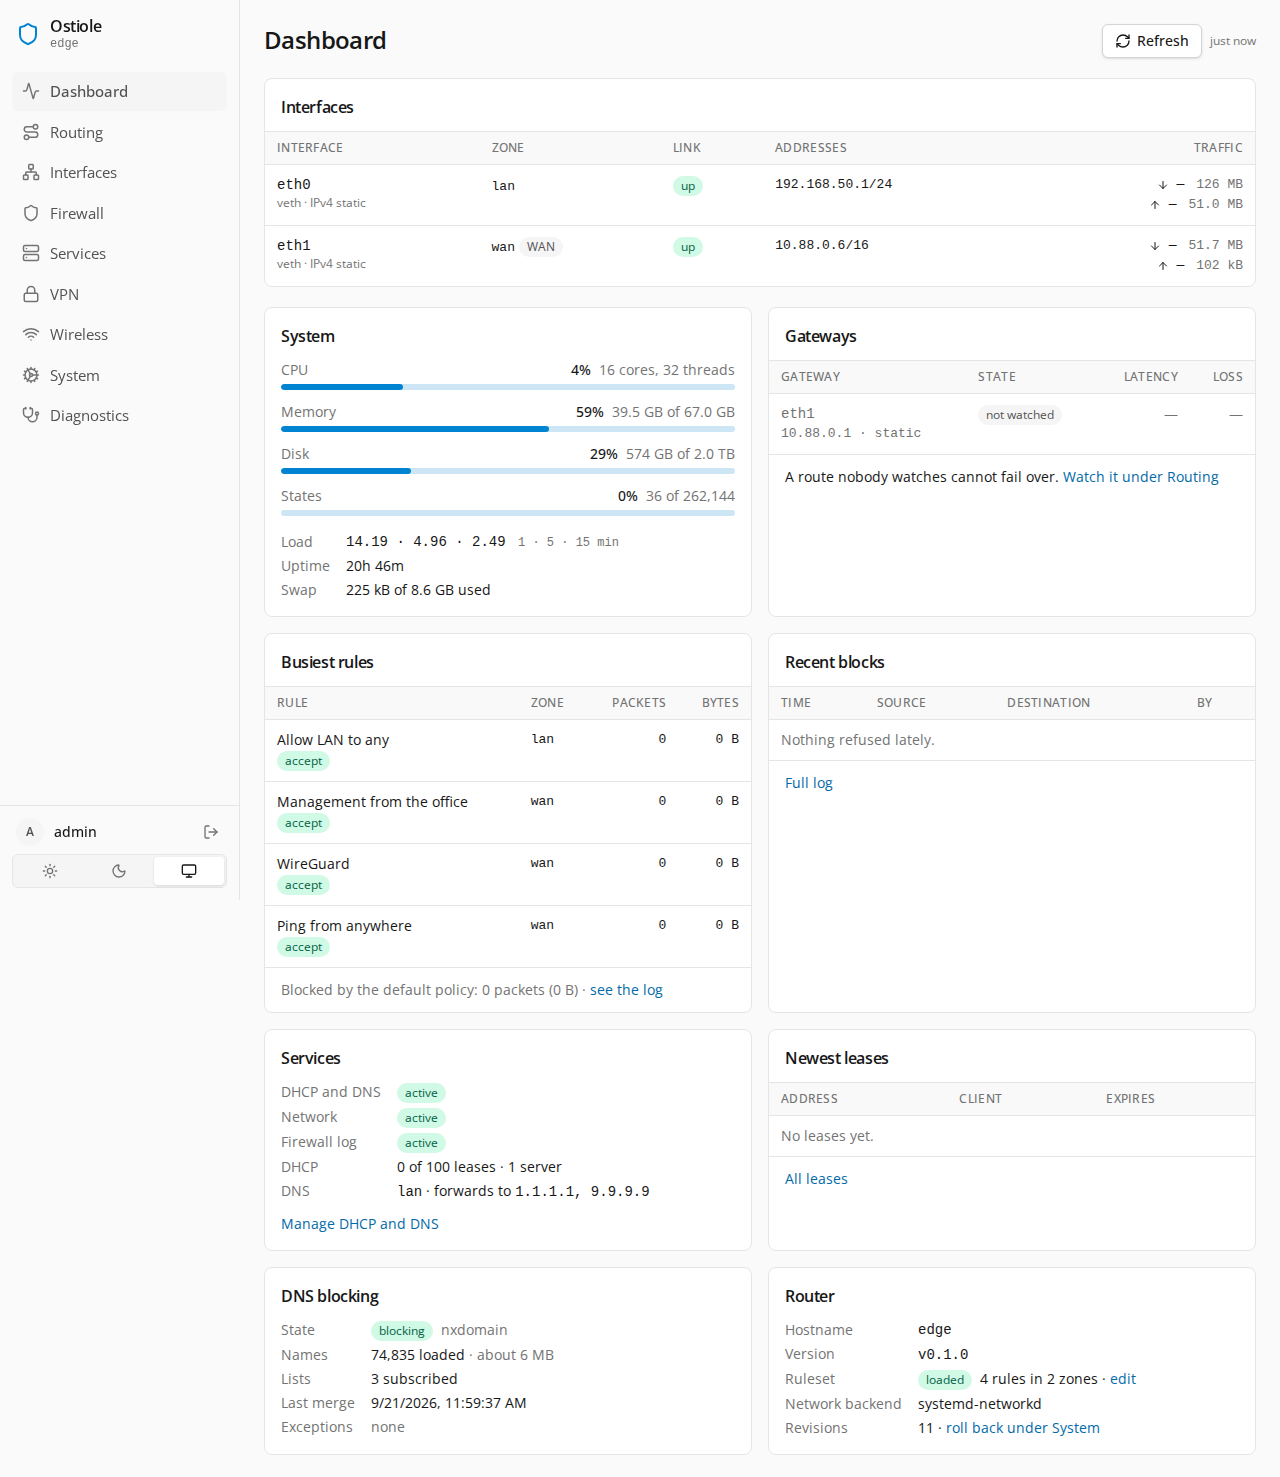
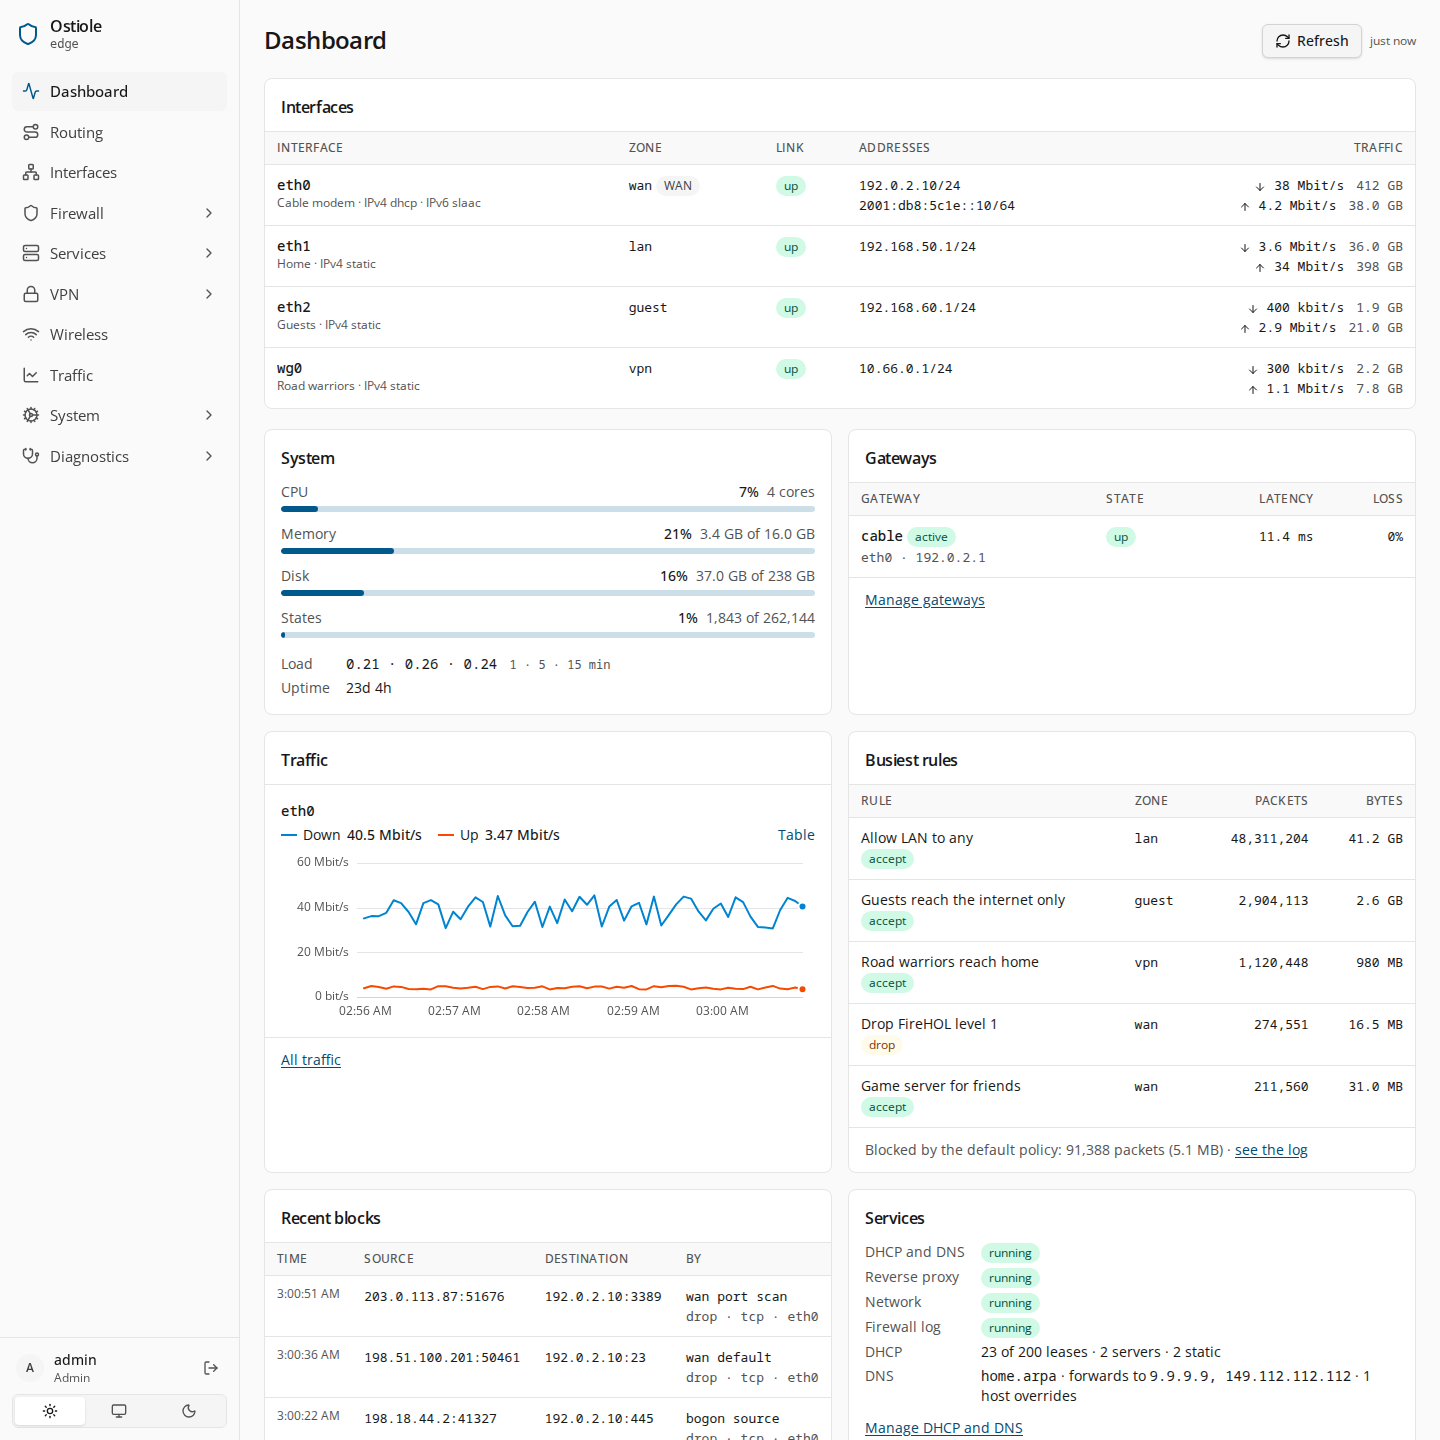
New screenshots

diff --git a/README.md b/README.md
@@ -53,15 +53,15 @@ configuration: systemd-networkd, dnsmasq, unbound, chrony, miniupnpd, pppd and h
 <table>
 <tr>
 <td width="25%"><a href=".github/screenshots/dashboard.png"><img src=".github/screenshots/dashboard.png" alt="Dashboard"></a><br>Dashboard</td>
-<td width="25%"><a href=".github/screenshots/interfaces.png"><img src=".github/screenshots/interfaces.png" alt="Interfaces"></a><br>Interfaces</td>
-<td width="25%"><a href=".github/screenshots/rules.png"><img src=".github/screenshots/rules.png" alt="Firewall rules in the wan zone"></a><br>Firewall rules</td>
 <td width="25%"><a href=".github/screenshots/dns-blocking.png"><img src=".github/screenshots/dns-blocking.png" alt="DNS block lists"></a><br>DNS blocking</td>
+<td width="25%"><a href=".github/screenshots/proxy.png"><img src=".github/screenshots/proxy.png" alt="Requests the reverse proxy's WAF blocked"></a><br>Reverse proxy</td>
+<td width="25%"><a href=".github/screenshots/rules.png"><img src=".github/screenshots/rules.png" alt="Firewall rules in the wan zone, with private and bogon sources blocked"></a><br>Firewall rules</td>
 </tr>
 <tr>
-<td width="25%"><a href=".github/screenshots/proxy-waf.png"><img src=".github/screenshots/proxy-waf.png" alt="WAF profiles on the reverse proxy"></a><br>WAF profiles</td>
-<td width="25%"><a href=".github/screenshots/wireless.png"><img src=".github/screenshots/wireless.png" alt="Wireless radios"></a><br>Wireless</td>
-<td width="25%"><a href=".github/screenshots/updates.png"><img src=".github/screenshots/updates.png" alt="Update settings"></a><br>Updates</td>
-<td width="25%"><a href=".github/screenshots/connections.png"><img src=".github/screenshots/connections.png" alt="The connection table"></a><br>Connections</td>
+<td width="25%"><a href=".github/screenshots/traffic.png"><img src=".github/screenshots/traffic.png" alt="Traffic per interface over a day"></a><br>Traffic</td>
+<td width="25%"><a href=".github/screenshots/firewall-log.png"><img src=".github/screenshots/firewall-log.png" alt="The firewall log"></a><br>Firewall log</td>
+<td width="25%"><a href=".github/screenshots/wireguard.png"><img src=".github/screenshots/wireguard.png" alt="A WireGuard device's file and QR code"></a><br>WireGuard</td>
+<td width="25%"><a href=".github/screenshots/shaping.png"><img src=".github/screenshots/shaping.png" alt="Traffic shaping queues, live"></a><br>Traffic shaping</td>
 </tr>
 </table>
 
